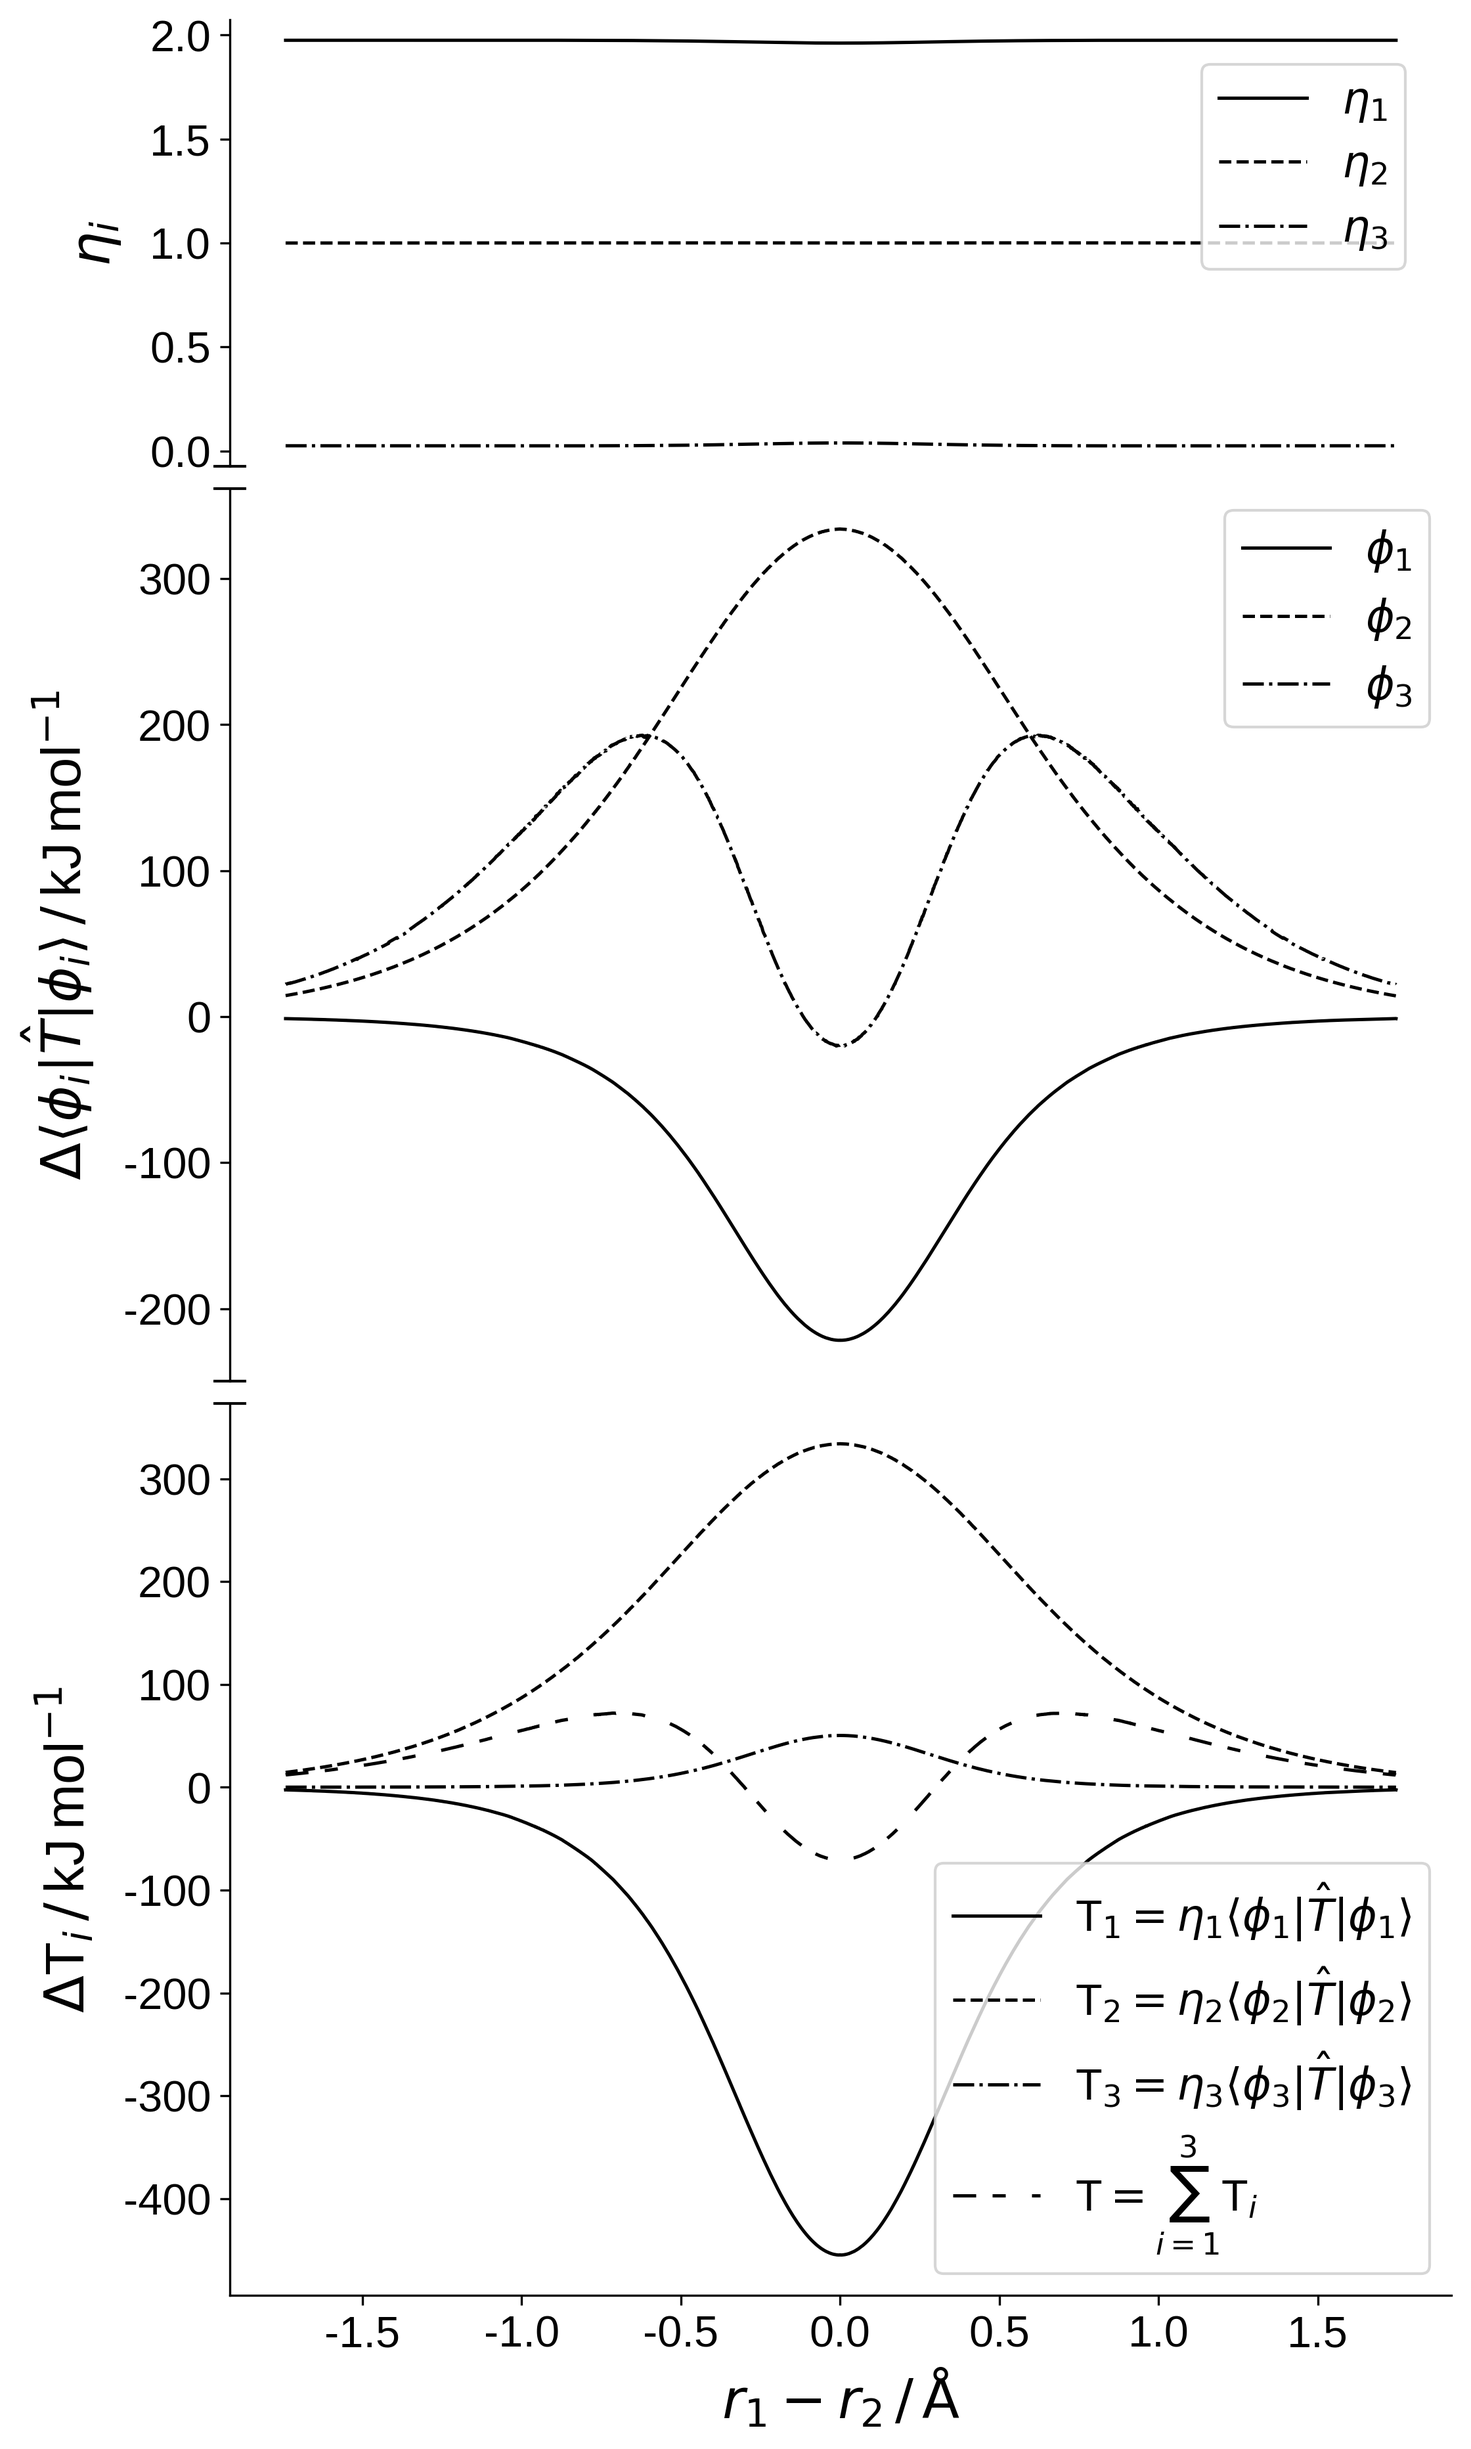
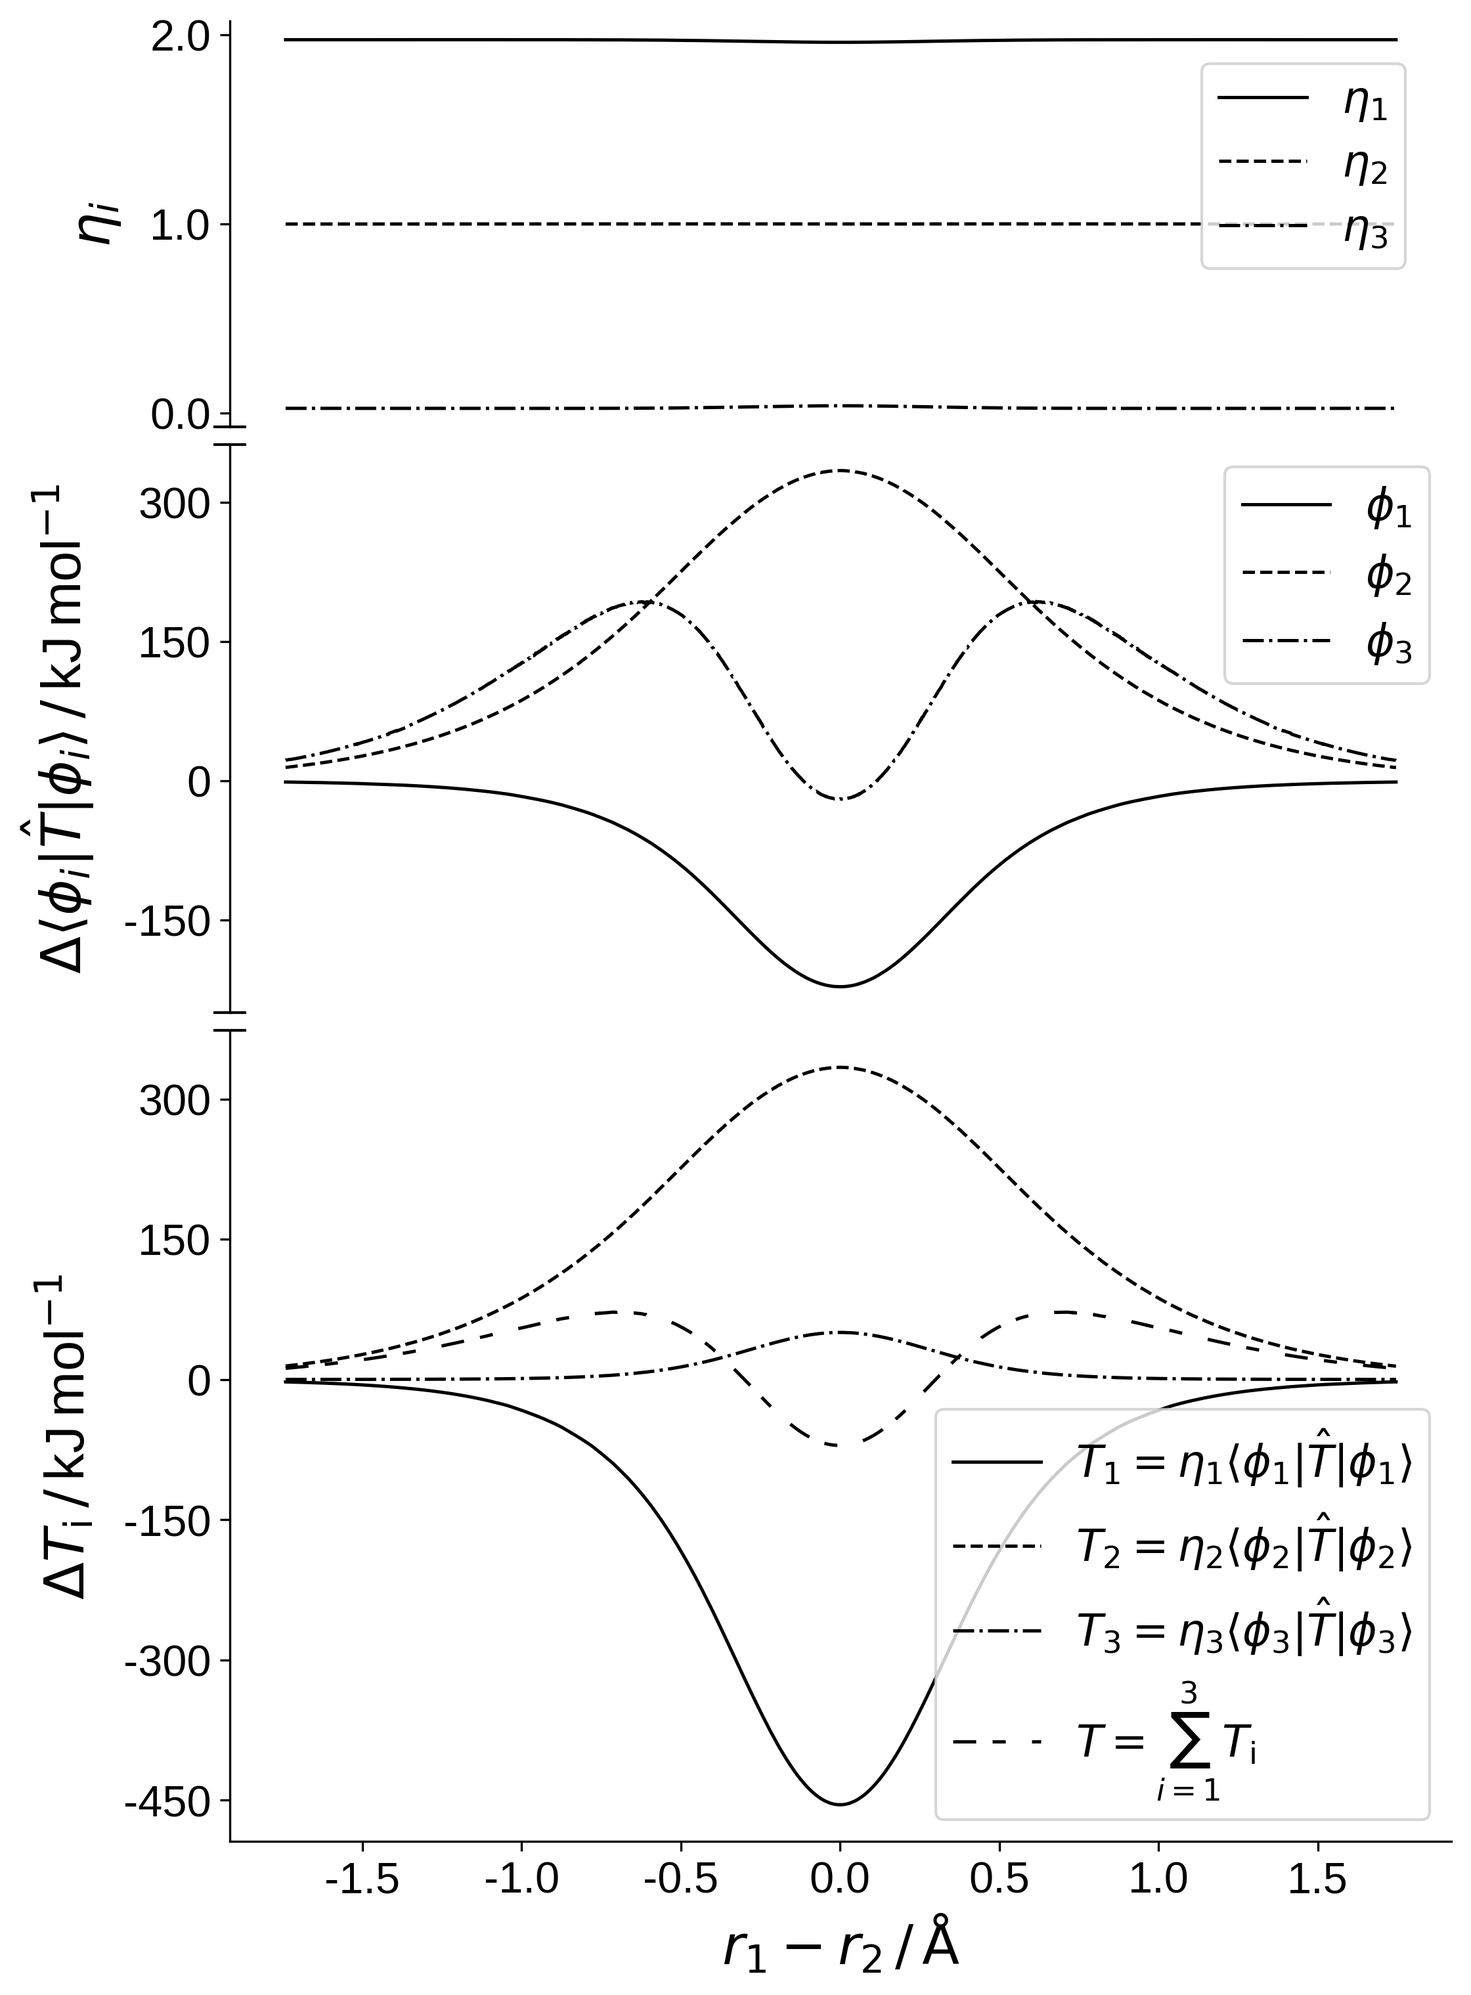
Added generated images and changes to plotting script

diff --git a/script_to_plot_them_all.py b/script_to_plot_them_all.py
@@ -68,8 +68,8 @@ def stacked_2x1():
     xs_int = np.arange(min(xs),max(xs),0.00001)
     xt_int = np.arange(min(xt),max(xt),0.00001)
     ax2.set_xlabel(r'$r_1-r_2\,/\,\mathrm{\AA}$', labelpad=12, fontsize=20)
-    ax2.set_ylabel(r'$\Delta$E$\,/\,$kJ$\,$mol$^{-1}$', labelpad=12, fontsize=20)
-    ax1.set_ylabel(r'$\Delta$T$\,/\,$kJ$\,$mol$^{-1}$', labelpad=12, fontsize=20)
+    ax2.set_ylabel(r'${\Delta}E\,/\,$kJ$\,$mol$^{-1}$', labelpad=12, fontsize=20)
+    ax1.set_ylabel(r'${\Delta}T\,/\,$kJ$\,$mol$^{-1}$', labelpad=12, fontsize=20)
 
     ax1.plot(xt_int,interp_tk(xt_int), '--', label='Triplet',color='red', lw=1.2)
     ax1.plot(xd_int,interp_dk(xd_int), '--', label='Doublet',color='blue', lw=1.2)
@@ -212,13 +212,13 @@ def eda():
         ax1.plot(diff[i:j],cumulative1[i:j], color=palette[3], linestyle='--', lw=1.2,label=r'${\Delta}E_\mathrm{FRZ}+{\Delta}E_\mathrm{POL}$')
         ax1.plot(diff[i:j],cumulative2[i:j], color=palette[4], linestyle=(0,(8,6)), lw=1.2,label=r'${\Delta}E_\mathrm{FRZ}+{\Delta}E_\mathrm{POL}+{\Delta}E_\mathrm{CT}$')
         ax1.plot(diff[i:j],strain_E[i:j], color='navy', linestyle=(0, (4, 6, 8, 3)), lw=1.8,label=r'${\Delta}E_\mathrm{GD}$')
-        ax1.plot(diff[i:j],k_E[i:j], color='k', linestyle='-', lw=1.8,label=r'$\Delta$T')
+        ax1.plot(diff[i:j],k_E[i:j], color='k', linestyle='-', lw=1.8,label=r'${\Delta}T$')
         print(f'Kinetic energy max point calculated at x={diff[i:j][np.argwhere(k_E[i:j]==max(k_E[i:j]))]}')
         ax1.axvline(diff[i:j][np.argwhere(k_E[i:j]==max(k_E[i:j]))],ymin=0.15,linestyle=(0,(5,2)),color='k',lw=0.8)
-        ax1.text(diff[i:j][np.argwhere(k_E[i:j]==max(k_E[i:j]))][0][0]+0.01,84,r'$\frac{dT}{d\mathbf{R}}=0$',fontsize=14)
+        ax1.text(diff[i:j][np.argwhere(k_E[i:j]==max(k_E[i:j]))][0][0]+0.01,150,r'$\frac{dT}{d\mathbf{R}}=0$',fontsize=20)
         if KE_grad_SW_id:
             ax1.axvline(diff[i:j][KE_grad_SW_id],ymin=0.15,linestyle=(0,(5,2)),color='k',lw=0.8)
-            ax1.text(diff[i:j][KE_grad_SW_id]+0.01,95,r'$\frac{d^2T}{d\mathbf{R}^2}=0$',fontsize=14)
+            ax1.text(diff[i:j][KE_grad_SW_id]-0.4,95,r'$\frac{d^2T}{d\mathbf{R}^2}=0$',fontsize=20)
         ax1.axhline(0,linestyle='-',color='k',lw=0.8)
         ax1.set_ylabel(r'Energy change$\,/\,$kJ$\,$mol$^{-1}$',fontsize=20,labelpad=10)
         yformatter = FuncFormatter(lambda value, _: f'{value:.0f}')
@@ -288,8 +288,8 @@ def natorb():
         linstyles = ['-','--','dashdot']
 
         #Plot the overlay of normalized 1 electron orbital kinetic energies
-        fig, ((ax1),(ax2),(ax3)) = plt.subplots(3, 1, sharex='col',sharey='row',figsize=(8,15),dpi=300,
-        gridspec_kw={'height_ratios':[0.5,1,1]})
+        fig, ((ax1),(ax2),(ax3)) = plt.subplots(3, 1, sharex='col',sharey='row',figsize=(8,12),dpi=300,
+        gridspec_kw={'height_ratios':[0.5,0.7,1]})
         for i,key in enumerate(orbitals):
             ax2.plot(x,orb_ke_1e[key]*factor-ref[i]*factor, color='k',label=fr'$\phi_{i+1}$', linestyle=linstyles[i], lw=1.2)
         ax2.set_ylabel(r'${\Delta}\langle\phi_i\vert\hat{T}\vert\phi_i\rangle\,/\,$kJ$\,$mol$^{-1}$',fontsize=20,labelpad=10)
@@ -297,15 +297,17 @@ def natorb():
         ax2.yaxis.set_major_formatter(yformatter)
         ax2.tick_params(labelsize=16)
         ax2.legend(fontsize=16)
+        ax2.yaxis.set_major_locator(ticker.MultipleLocator(150))
         totalKE = np.zeros_like(orb_ke[next(iter(orb_ke))])
         for i,key in enumerate(orbitals):
             totalKE = totalKE+orb_ke[key]-ref_OKE[i]
-            ax3.plot(x,orb_ke[key]*factor-ref_OKE[i]*factor, color='k',label=fr'T$_{i+1}={{\eta}}_{i+1}\langle\phi_{i+1}\vert\hat{{T}}\vert\phi_{i+1}\rangle$', linestyle=linstyles[i], lw=1.2)
-        ax3.plot(x,totalKE*factor, color='k',label=r'T$=\sum_{i=1}^{3}$T$_i$', linestyle=(0,(7,5,4,8)), lw=1.2)
+            ax3.plot(x,orb_ke[key]*factor-ref_OKE[i]*factor, color='k',label=fr'$T_{i+1}={{\eta}}_{i+1}\langle\phi_{i+1}\vert\hat{{T}}\vert\phi_{i+1}\rangle$', linestyle=linstyles[i], lw=1.2)
+        ax3.plot(x,totalKE*factor, color='k',label=r'$T=\sum_{i=1}^{3}T_\mathrm{i}$', linestyle=(0,(7,5,4,8)), lw=1.2)
         ax3.set_xlabel(r'$r_1-r_2\,/\,\mathrm{\AA}$',fontsize=20)
-        ax3.set_ylabel(r'${\Delta}$T$_i\,/\,$kJ$\,$mol$^{-1}$',fontsize=20,labelpad=10)
+        ax3.set_ylabel(r'${\Delta}T_\mathrm{i}\,/\,$kJ$\,$mol$^{-1}$',fontsize=20,labelpad=10)
         yformatter = FuncFormatter(lambda value, _: f'{value:.0f}')
         ax3.yaxis.set_major_formatter(yformatter)
+        ax3.yaxis.set_major_locator(ticker.MultipleLocator(150))
         ax3.tick_params(labelsize=16)
         ax3.legend(fontsize=16)
         for i,key in enumerate(orbitals):
